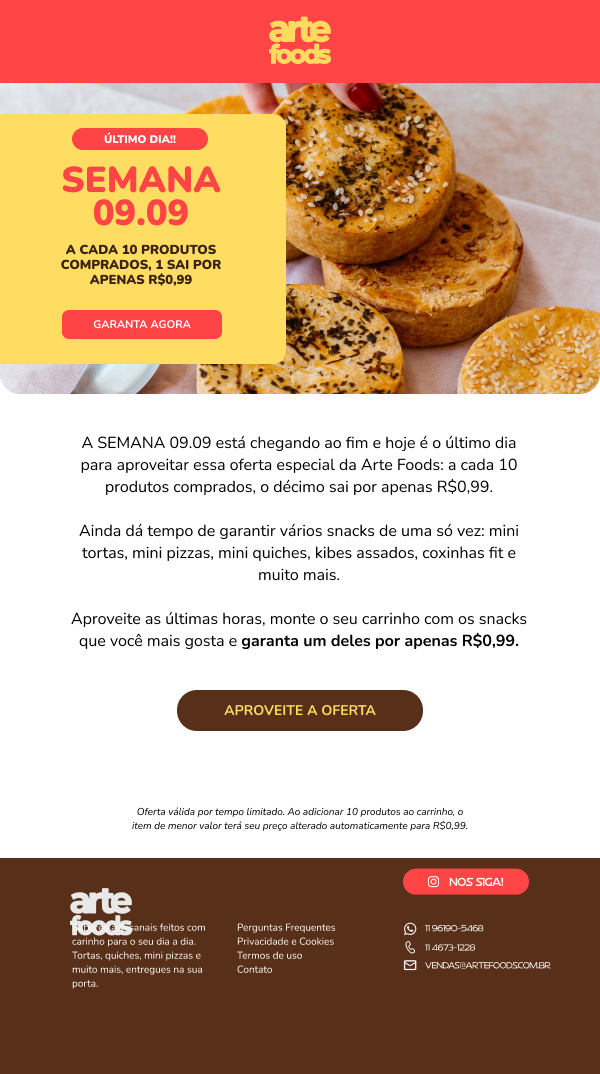
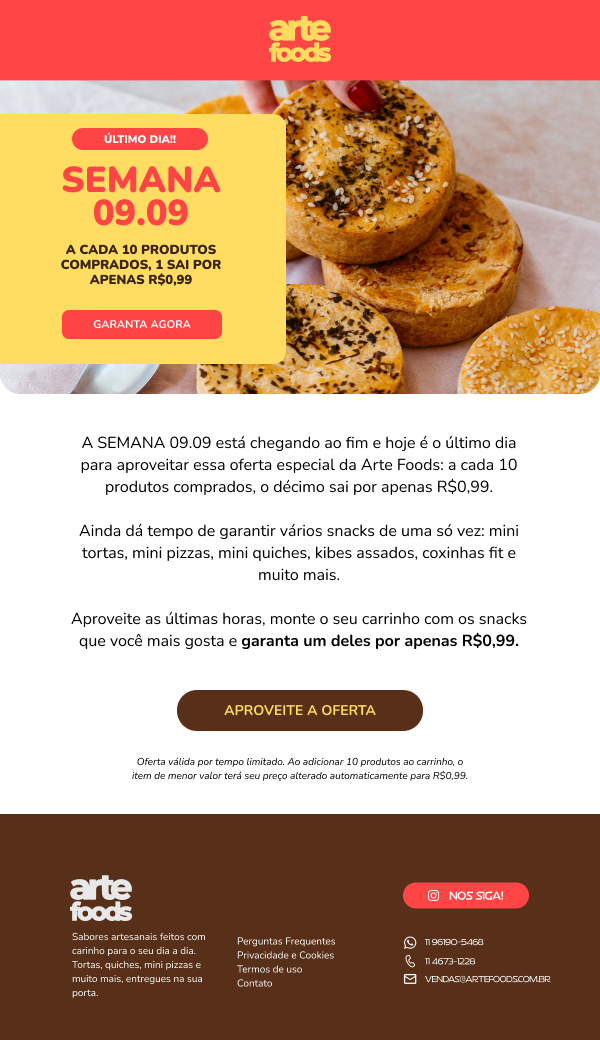
fix: refinar rodapé do email Arte Foods

Changed region(s): [[0.0, 0.0615, 1.0, 0.9538], [0.12, 0.8308, 0.33, 0.9538], [0.39, 0.8615, 0.57, 0.9538]]

diff --git a/semana-0909-ultimo-dia/index.html b/semana-0909-ultimo-dia/index.html
@@ -20,12 +20,12 @@
       <area shape="rect" coords="230,0,370,80" href="https://artefoods.com.br/?utm_source=email&amp;utm_medium=email&amp;utm_campaign=semana-0909-ultimo-dia&amp;utm_content=logo" target="_blank" alt="Arte Foods">
       <area shape="rect" coords="62,310,222,339" href="https://artefoods.com.br/?utm_source=email&amp;utm_medium=email&amp;utm_campaign=semana-0909-ultimo-dia&amp;utm_content=hero-cta" target="_blank" alt="Garanta agora">
       <area shape="rect" coords="177,690,423,731" href="https://artefoods.com.br/?utm_source=email&amp;utm_medium=email&amp;utm_campaign=semana-0909-ultimo-dia&amp;utm_content=cta" target="_blank" alt="Aproveite a oferta">
-      <area shape="rect" coords="70,888,133,936" href="https://artefoods.com.br/?utm_source=email&amp;utm_medium=email&amp;utm_campaign=semana-0909-ultimo-dia&amp;utm_content=footer-logo" target="_blank" alt="Arte Foods">
-      <area shape="rect" coords="403,869,529,895" href="https://www.instagram.com/artefoodsoficial" target="_blank" alt="Instagram Arte Foods">
-      <area shape="rect" coords="237,921,387,935" href="https://artefoods.com.br/perguntas-frequentes" target="_blank" alt="Perguntas frequentes">
-      <area shape="rect" coords="237,936,387,951" href="https://artefoods.com.br/privacidade" target="_blank" alt="Privacidade e cookies">
-      <area shape="rect" coords="237,952,387,966" href="https://artefoods.com.br/termos-de-uso" target="_blank" alt="Termos de uso">
-      <area shape="rect" coords="237,967,387,980" href="https://artefoods.com.br/contato" target="_blank" alt="Contato">
+      <area shape="rect" coords="70,875,133,922" href="https://artefoods.com.br/?utm_source=email&amp;utm_medium=email&amp;utm_campaign=semana-0909-ultimo-dia&amp;utm_content=footer-logo" target="_blank" alt="Arte Foods">
+      <area shape="rect" coords="403,882,529,909" href="https://www.instagram.com/artefoodsoficial" target="_blank" alt="Instagram Arte Foods">
+      <area shape="rect" coords="237,935,387,949" href="https://artefoods.com.br/perguntas-frequentes" target="_blank" alt="Perguntas frequentes">
+      <area shape="rect" coords="237,950,387,965" href="https://artefoods.com.br/privacidade" target="_blank" alt="Privacidade e cookies">
+      <area shape="rect" coords="237,966,387,980" href="https://artefoods.com.br/termos-de-uso" target="_blank" alt="Termos de uso">
+      <area shape="rect" coords="237,981,387,994" href="https://artefoods.com.br/contato" target="_blank" alt="Contato">
     </map>
   </div>
   <a class="unsubscribe" href="{{{RESEND_UNSUBSCRIBE_URL}}}">descadastrar</a>
